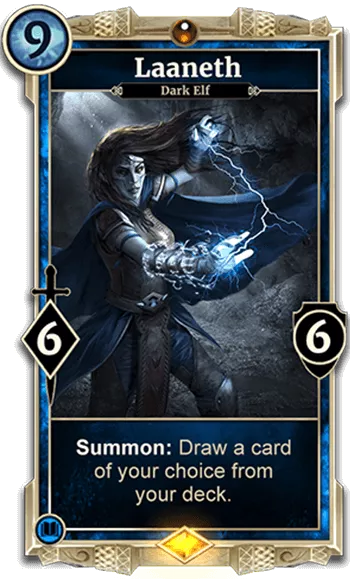
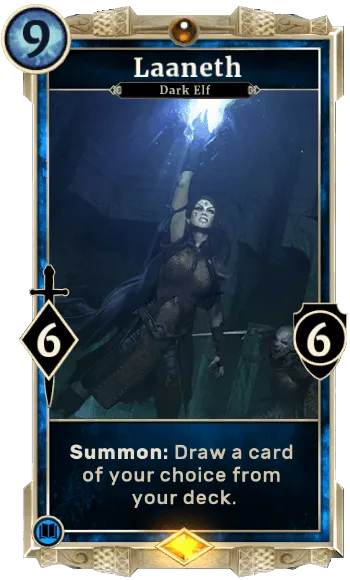
Add Laaneth alternative art. Add Dusknikh Yal Archer card

diff --git a/app/src/release/java/com/ediposouza/teslesgendstracker/util/LoggerManager.kt b/app/src/release/java/com/ediposouza/teslesgendstracker/util/LoggerManager.kt
@@ -16,7 +16,7 @@ class LoggerManager : Timber.Tree() {
         return super.isLoggable(tag, priority)
     }
 
-    override fun log(priority: Int, tag: String?, message: String?, t: Throwable?) {
+    override fun log(priority: Int, tag: String?, message: String, t: Throwable?) {
         if (!isLoggable(tag, priority)) {
             return
         }

diff --git a/app/src/main/kotlin/com/ediposouza/teslesgendstracker/data/Card.kt b/app/src/main/kotlin/com/ediposouza/teslesgendstracker/data/Card.kt
@@ -31,6 +31,7 @@ enum class CardSet(val title: String) {
     HEROESOFSKYRIM("Heroes of Skyrim"),
     MADHOUSE("Madhouse Collection"),
     FALLOFTHEDARKBROTHERHOOD("The Fall of the Dark Brotherhood"),
+    RETURNTOCLOCKWORKCITY("Return to Clockwork City"),
     TOKENS("Tokens"),
     UNKNOWN(TEXT_UNKNOWN);
 
